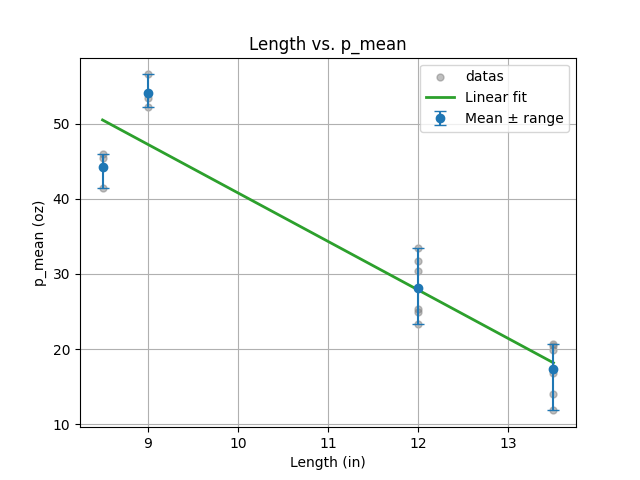
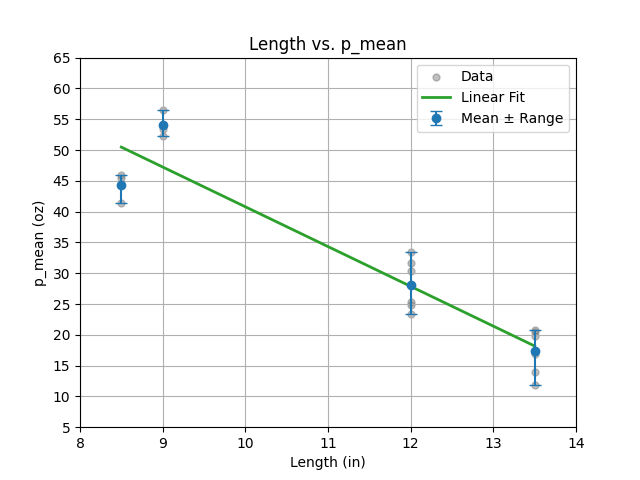
Minor update

diff --git a/buckling_analysis_2.py b/buckling_analysis_2.py
@@ -57,14 +57,35 @@ slope, intercept = np.polyfit(x_fit[mask], y_fit[mask], 1)
 x_line = np.linspace(np.min(x_fit[mask]), np.max(x_fit[mask]))
 y_line = slope * x_line + intercept
 
+y_lo = min(min(y_raw), min(y_min))
+y_hi = max(max(y_raw), max(y_max))
+
+pad = 5
+ymin_padded = y_lo - pad
+ymax_padded = y_hi + pad
+
+ymin5 = 5 * np.floor(ymin_padded / 5.0)
+ymax5 = 5 * np.ceil(ymax_padded / 5.0)
+
 # Plot
+plt.close("all")
+
 plt.figure()
-plt.scatter(x_raw, y_raw, s=25, alpha=0.5, color="gray", label="datas")
-plt.plot(x_line, y_line, color="tab:green", linewidth=2, label=f"Linear fit")
-plt.errorbar(x_mean, y_mean, yerr=yerr, fmt="o", color="tab:blue", ecolor="tab:blue", capsize=4, label="Mean ± range")
+plt.gcf().canvas.manager.set_window_title("buckling_analysis_2")
+
+plt.scatter(x_raw, y_raw, s=25, alpha=0.5, color="gray", label="Data")
+plt.plot(x_line, y_line, color="tab:green", linewidth=2, label=f"Linear Fit")
+
+plt.xlim(8, 14)
+plt.ylim(ymin5, ymax5)
+
+plt.yticks(np.arange(ymin5, ymax5 + 0.1, 5))
+plt.errorbar(x_mean, y_mean, yerr=yerr, fmt="o", color="tab:blue", ecolor="tab:blue", capsize=4, label="Mean ± Range")
+
+plt.title("Length vs. p_mean")
 plt.xlabel("Length (in)")
 plt.ylabel("p_mean (oz)")
-plt.title("Length vs. p_mean")
+
 plt.grid(True)
 plt.legend()
 plt.show()

diff --git a/buckling_analysis_1.py b/buckling_analysis_1.py
@@ -39,12 +39,18 @@ x_mean = [LEN_1, LEN_2, LEN_3, LEN_4]
 y_mean = [data_1.mean(), data_2.mean(), data_3.mean(), data_4.mean()]
 
 # Plotting
+plt.close("all")
+
 plt.figure()
-plt.scatter(x_raw, y_raw, s=25, alpha=0.5, label="datas")
-plt.plot(x_mean, y_mean, marker="o", linestyle="-", label="mean values")
+plt.gcf().canvas.manager.set_window_title("buckling_analysis_1")
+
+plt.scatter(x_raw, y_raw, s=25, alpha=0.5, label="Data")
+plt.plot(x_mean, y_mean, marker="o", linestyle="-", label="Mean Values")
+
+plt.title("Length vs. p_mean")
 plt.xlabel("Length (in)")
 plt.ylabel("p_mean (oz)")
-plt.title("Length vs. p_mean")
+
 plt.grid(True)
 plt.legend()
 plt.show()

diff --git a/README.md b/README.md
@@ -23,12 +23,16 @@ pip install pandas matplotlib openpyxl
 In this project, we aim to explore the buckling behavior of acrylic strips under compressive loads to understand how the strip length affects the critical buckling load. By conducting multiple tests on strips of different lengths, we hope to develop a model that can predict the buckling load for various strip sizes.
 
 ### 1. Free Body Diagram of the Loaded Acrylic Strip
+The first figure shows the Free Body Diagram (FBD) of the acrylic strip during the buckling test. It illustrates the applied force, the strip’s weight, and the reaction force from the scale acting on the strip.
+
+![buckling_FBD](assets/buckling_FBD.png)
+
 ```bash
 python3 buckling_FBD.py
 ```
 
 ### 2. Buckling Load Analysis with Mean Values
-The first plot shows the relationship between strip length and the measured critical buckling load. It visualizes the raw data and overlays the mean values for each length.
+The second figure shows the relationship between strip length and the measured critical buckling load. It visualizes the raw data and overlays the mean values for each length.
 
 ![buckling_analysis_1](assets/buckling_analysis_1.png)
 
@@ -38,7 +42,7 @@ python3 buckling_analysis_1.py
 ```
 
 ### 3. Buckling Load Analysis with Linear Fit
-The second plot also shows the relationship between strip length and critical buckling load, but this time it adds a linear regression line fitted to the mean values and includes error bars to show the standard deviation of the measurements.
+The third figure also shows the relationship between strip length and critical buckling load, but this time it adds a linear regression line fitted to the mean values and includes error bars to show the standard deviation of the measurements.
 
 ![buckling_analysis_2](assets/buckling_analysis_2.png)
 
